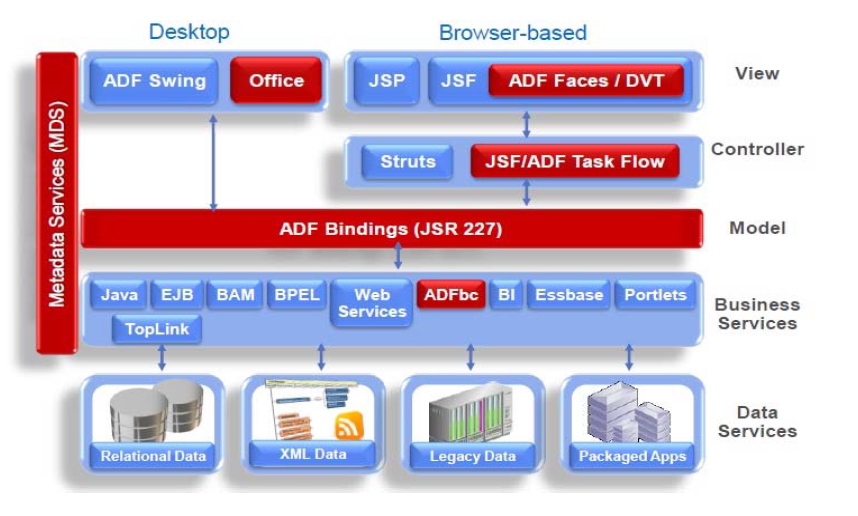
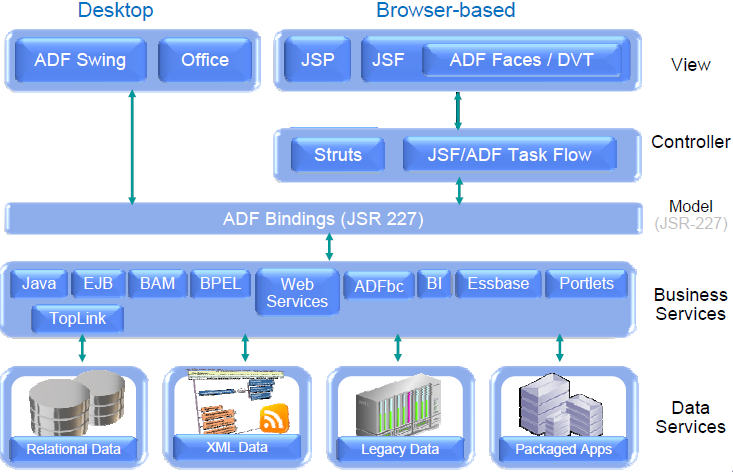
Umstrukturierung + Ergänzungen zu ADF und Anwendung

diff --git a/tex/praxis.tex b/tex/praxis.tex
@@ -1,0 +1,14 @@
+\section{Projektspezifische Gegenüberstellung}
+\subsection{Avalenet}
+Dieses Kapitel soll die zu erstellende Anwendung Avalenet grundlegend beschreiben um einen Einblick zu erhalten, welche Aspekte der beiden Frameworks ADF und Grails für die Anwendung relevant sein können.
+\subsubsection{Projekthintergrund}
+Die zu migrierende Anwendung „AvaleNet“ eines Bankhauses zur Verwaltung von Kunden-, Konto- und Aval-Daten ist vor fünf Jahren in einer heute veralteten Version (Version 10) des Frameworks ADF entwickelt worden. Da dies eine heute schlechte Performanz der Anwendung und eine erschwerte Wartbarkeit zur Folge hat, soll die Anwendung nun migriert werden.
+\subsubsection{Projektanforderungen}
+Die Anwendung „AvaleNet“ ermöglicht es einem Mitarbeiter des Bankhauses zum einen bereits bestehende Daten von Kunden, Konten oder Avalen bearbeiten, zum anderen stehen ihm aber auch einige Export-Funktionen zur Verfügung. Er kann beispielsweise eine Liste aller, zu einem Kunden gehörigen Avale in ein PDF-Dokument exportieren, oder die Einzeldaten pro Aval auf diese Weise auflisten lassen.
+
+
+\subsection{Vor- und Nachteile der Frameworks im Bezug auf Avalenet}
+Welche Vorteile haben die beiden Frameworks im Bezug auf die zu entwickelnde Anwendung?
+Welche Nachteile ergeben sich für Avalenet, wenn eines der Frameworks verwendet wird.
+\subsection{Aufwiegen der Vor- und Nachteile}
+Dieses Kapitel fasst die Vor und Nachteile der beiden Frameworks zusammen und stellt sie vergleichend gegenüber, um letztendlich zu entscheiden, welches der beiden Frameworks sich besser zur Entwicklung der Anwendung Avalenet eignet.

diff --git a/tex/gegenueber.tex b/tex/gegenueber.tex
@@ -1,12 +1,9 @@
 \section{Gegenüberstellung der Frameworks}
+\subsection{Anforderungen an Web Application Frameworks}
+Dieses Kapitel soll die wesentlichen Anforderungen an Web Application Frameworks zusammenfassen und eine Begründung enthalten, weshalb diese Anforderungen relavant sind. Es wird benötigt, um in den Folgenden Kapiteln die Vor und Nachteile der beiden Frameworks in angemessenem Rahmen darstellen zu können.(vergleichbar darstellen können)
 \subsection{Vor- und Nachteile von ADF}
 Was zeichnet ADF aus? Was kann ADF besser als andere Frameworks seiner Art?
 Welche Nachteile bringt ADF, was macht es schlechter als vergleichbare Frameworks?
 \subsection{Vor- und Nachteile von Grails}
 Was zeichnet Grails aus? Was kann Grails besser als andere Frameworks seiner Art?
 Welche Nachteile bringt Grails, was macht es schlechter als vergleichbare Frameworks?
-\subsection{Vor- und Nachteile der Frameworks im Bezug auf Avalenet}
-Welche Vorteile haben die beiden Frameworks im Bezug auf die zu entwickelnde Anwendung?
-Welche Nachteile ergeben sich für Avalenet, wenn eines der Frameworks verwendet wird.
-\subsection{Aufwiegen der Vor- und Nachteile}
-Dieses Kapitel fasst die Vor und Nachteile der beiden Frameworks zusammen und stellt sie vergleichend gegenüber, um letztendlich zu entscheiden, welches der beiden Frameworks sich besser zur Entwicklung der Anwendung Avalenet eignet.

diff --git a/tex/theorie.tex b/tex/theorie.tex
@@ -30,7 +30,11 @@ Dieses Kapitel soll einen Einblick in die Möglichkeiten des Frameworks ADF biet
 \subsubsection{Grundlegendes}
 
 Eine Lösung zur Entwicklung von modernen Anwendungen als komponentenbasierte Benutzerschnittstelle bietet ORACLE mit dem Application Development Framework (ADF). ADF ist ein Java EE (Java Enterprise Edition) Framework, das Anwendungsentwicklung mit Java, Java EE und SOA vereinfachen soll um ein breites Publikum von Geschäftsbereich und Technologie Experten anzusprechen, die zusammen arbeiten müssen, um langlebige Enterprise Softwarelösungen entwickeln zu können.(Oracle Fusion Developer Guide Introduction Seite xxiii)
+\subsubsection{Architektur}
+\begin{figure}
+\centering
+\includegraphics[width=0.80\textwidth]{img/MVC-ADF.png}
+\caption {MVC-Architektur von ADF}
+\end{figure}
 \subsection{Grails}
 Dieses Kapitel soll einen Einblick in das Framework Grails ermöglichen.
-\subsection{Avalenet}
-Dieses Kapitel soll die zu erstellende Anwendung Avalenet grundlegend beschreiben um einen Einblick zu erhalten, welche Aspekte der beiden Frameworks ADF und Grails für die Anwendung relevant sein können.

diff --git a/Doku.tex b/Doku.tex
@@ -20,8 +20,9 @@
 \include{tex/einleitung}
 \include{tex/theorie}
 \include{tex/gegenueber}
+\include{tex/praxis}
 \include{tex/fazit}
-asd\cite{fitzgerald:realigning_research_and_practice}
+%asd\cite{fitzgerald:realigning_research_and_practice}
 \clearpage
 \addcontentsline{toc}{section}{Literaturverzeichnis}
 \bibliography{literatur}
